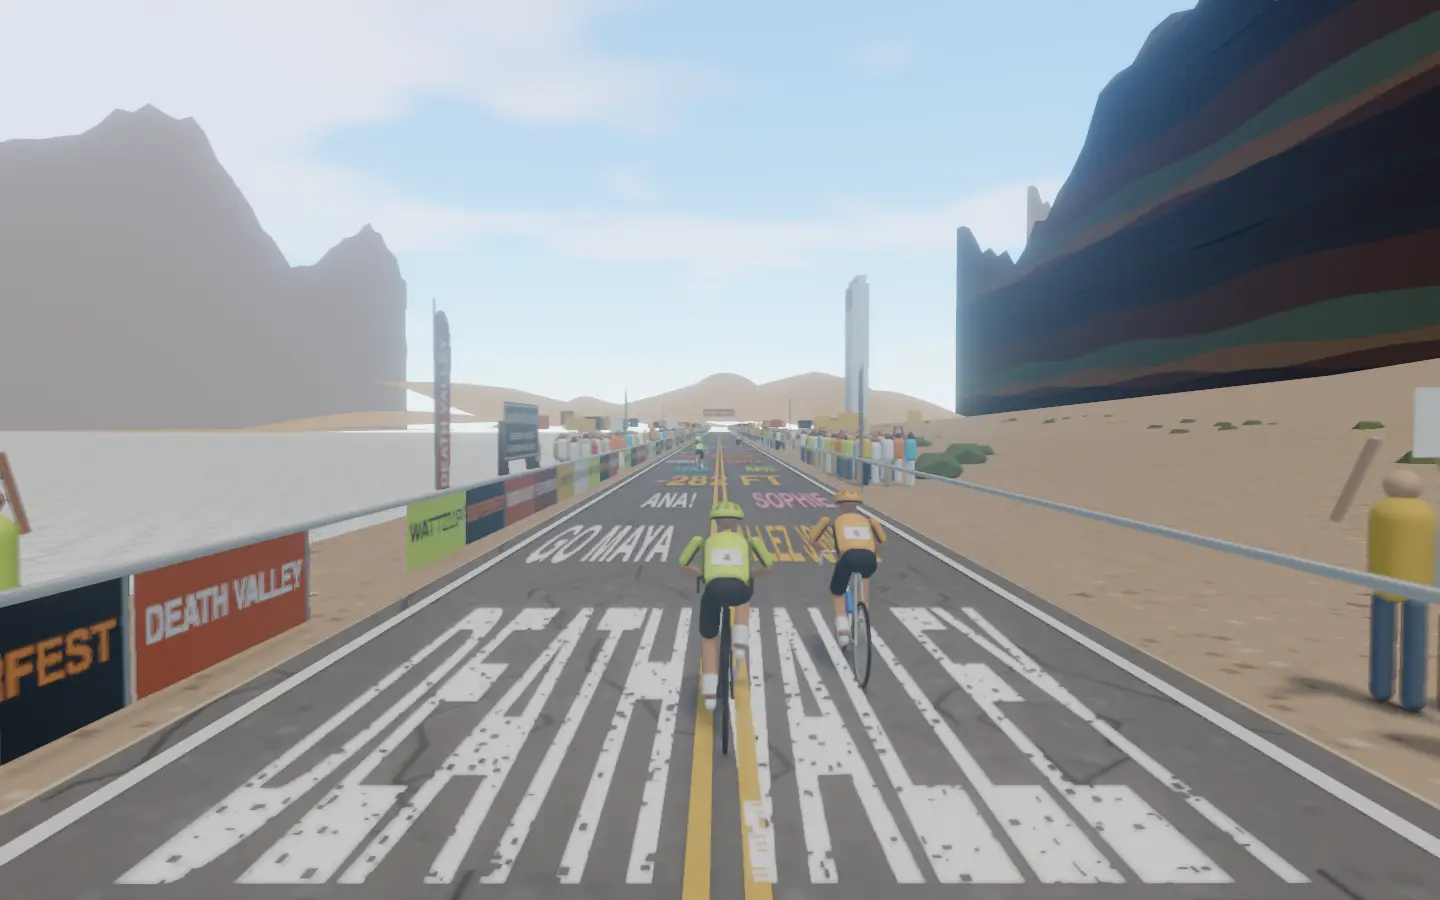
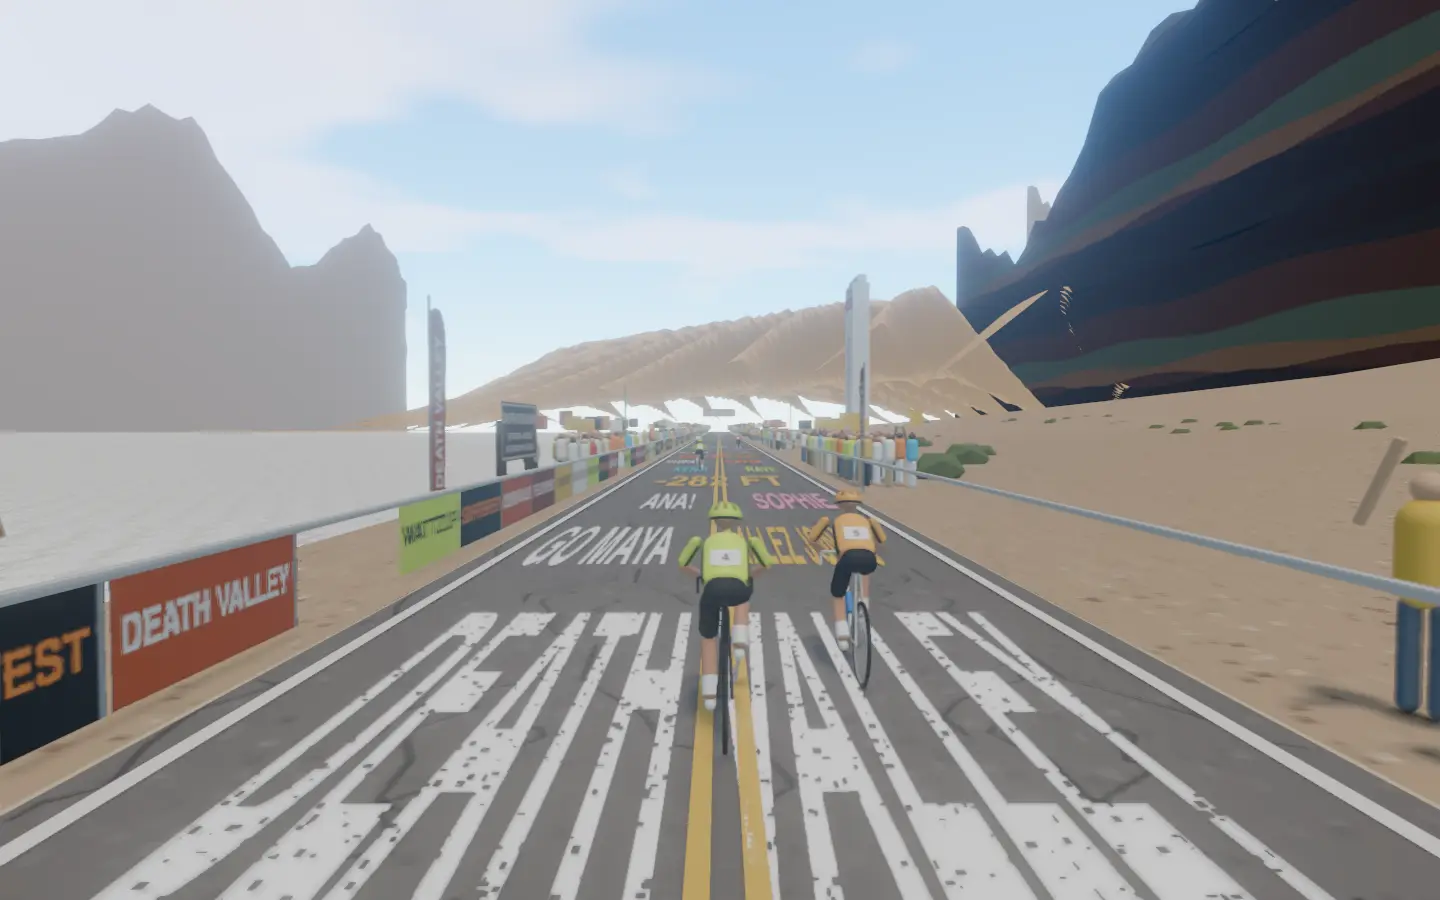
Raise Death Valley's dunes into a ridge field at the end of the road
Transverse ridges with sunlit windward slopes, knife-edge crests and shaded
slip faces, heaped into great mounds, so the dunes read as the landmark.

diff --git a/frontend/projects/wattzup/src/app/core/world-deathvalley.ts b/frontend/projects/wattzup/src/app/core/world-deathvalley.ts
@@ -11,6 +11,7 @@
 // feather flags, pop-up tents, salt crust, road paint and box builder of world-kit.ts.
 import {
   AdditiveBlending,
+  BufferAttribute,
   type BufferGeometry,
   type CanvasTexture,
   Color,
@@ -482,22 +483,42 @@ export class DeathValleyStreet implements SceneStreet {
       new Mesh(panamint, this.distant(haze, 0x9a8a9e, 0.45)),
       new Mesh(cap, this.distant(haze, 0xffffff, 0.15)),
     );
-    // The dunes ahead: rippled sand, crest behind crest, sharp on their lee sides.
-    const dunes = new PlaneGeometry(1600, 800, 160, 80);
+    // The dunes ahead, rising out of the heat at the end of the road: transverse ridges driven by
+    // the wind, each a long gentle windward slope up to a knife-edge crest and a steep slip face
+    // falling away beyond it, heaped into great mounds. The slip faces lie in shade, the crests
+    // catch the light, so the field reads ridge behind ridge.
+    const dunes = new PlaneGeometry(1000, 800, 200, 160);
     dunes.rotateX(-Math.PI / 2);
     const position = dunes.getAttribute('position');
+    const shade = new Float32Array(position.count * 3);
+    const sand = new Color(0xffffff);
     for (let i = 0; i < position.count; i++) {
       const x = position.getX(i);
       const z = position.getZ(i);
-      const ridge = Math.abs(Math.sin(x / 70 + z / 90 + Math.sin(z / 55) * 0.8));
-      const swell = 0.5 + 0.5 * Math.sin(x / 210 - z / 160);
-      const edge = Math.min(1, (z + 400) / 220, (360 - Math.abs(x)) / 220);
-      position.setY(i, Math.max(0, edge) * (10 + 75 * swell * ridge ** 1.6) - 3);
+      const wave = (x * 0.8 + z * 0.6) / 70 + 0.7 * Math.sin(z / 130) + 0.4 * Math.sin(x / 85);
+      const u = wave - Math.floor(wave);
+      const slip = u > 0.78;
+      const profile = slip ? (1 - u) / 0.22 : u / 0.78;
+      const mound = 0.5 + 0.5 * Math.sin(x / 190 - z / 230 + 1.2);
+      const edge = Math.max(0, Math.min(1, (z + 400) / 200, (300 - Math.abs(x)) / 140));
+      position.setY(i, edge * (8 + 100 * mound * (0.3 + 0.7 * profile)) - 3);
+      const tone = slip ? 0.66 : 0.88 + 0.16 * profile;
+      sand.setRGB(tone, tone * 0.97, tone * 0.93);
+      sand.toArray(shade, i * 3);
     }
+    dunes.setAttribute('color', new BufferAttribute(shade, 3));
     dunes.computeVertexNormals();
-    dunes.translate(-20, 0, -720);
+    dunes.translate(-10, 0, -520);
     this.disposables.push(dunes);
-    h.add(new Mesh(dunes, hazedMaterial(this.disposables, haze, 0xe8b878, 0.18, { roughness: 1 })));
+    h.add(
+      new Mesh(
+        dunes,
+        hazedMaterial(this.disposables, haze, 0xf0be7a, 0.12, {
+          roughness: 1,
+          vertexColors: true,
+        }),
+      ),
+    );
     // The mirage on the road ahead: a pale sheen of the sky lying on the asphalt, wavering.
     const sheen = new PlaneGeometry(26, 150);
     sheen.rotateX(-Math.PI / 2);

diff --git a/docs/class-worlds.md b/docs/class-worlds.md
@@ -67,7 +67,7 @@ Every class in `frontend/public/classes.json`, with its World Ride scene. Render
 | 61 | 20 Minute Cardio: Lose Weight Fast | Santa Monica Pier | 80% | The beach bike path winds across the golden sand of Santa Monica toward the pier beneath a line of palms, past painted lifeguard towers and the surfers riding the breakers below the pilings, as the Pacific Park Ferris wheel turns over the pier in the late afternoon sun. The three-minute warm-up rolls past the first lifeguard towers, the long efforts of two and three minutes push along the sand under the palms, and the one-minute and half-minute surges sprint for the pier with the easy minutes spun beside the surf. |
 | 62 | 20 Minute HIIT | Edinburgh Fringe | 78% | The Royal Mile packed with street performers and posters in August festival season. |
 | 63 | 20 Min Cardio Spin Bike Workout | Lake Louise (concept) |  | Turquoise glacial lake beneath Rocky Mountain peaks; an easy shoreline road in Banff. |
-| 64 | Sufferfest 20 Minute Session | Death Valley | 73% | Badwater Road runs below sea level across the floor of Death Valley in the blazing midday heat, the white salt flats of Badwater Basin glaring on the left beneath the Panamint Range and the dark Black Mountains rising on the right, toward golden dunes shimmering in the heat haze. The five-minute warm-up rolls past the salt pans at 282 feet below sea level, the half-minute and one-minute surges attack the shimmer over the flats, and the effort of two and a quarter minutes grinds toward the dunes before the two-minute cool-down spins out past the giant thermometer. |
+| 64 | Sufferfest 20 Minute Session | Death Valley | 76% | Badwater Road runs below sea level across the floor of Death Valley in the blazing midday heat, the white salt flats of Badwater Basin glaring on the left beneath the Panamint Range and the dark Black Mountains rising on the right, toward golden dunes shimmering in the heat haze. The five-minute warm-up rolls past the salt pans at 282 feet below sea level, the half-minute and one-minute surges attack the shimmer over the flats, and the effort of two and a quarter minutes grinds toward the dunes before the two-minute cool-down spins out past the giant thermometer. |
 | 65 | 20 Minute Fat Burning Workout | North Shore, Oahu | 72% | Big-wave beaches and shrimp trucks along Kamehameha Highway. |
 | 66 | 22 Minute Strength Intervals | Bealach na Bà (concept) |  | A single-track Highland road climbing above sea lochs through heather. |
 | 67 | Progressive Efforts on the Passo Gardena | Passo Gardena (concept) |  | Switchbacks beneath the Sella towers, efforts building toward the pass. |

diff --git a/docs/detailed-designs/world-ride/draw-class-scene/README.md b/docs/detailed-designs/world-ride/draw-class-scene/README.md
@@ -609,7 +609,7 @@ None.
   - the event's barriers (DEATH VALLEY, SUFFERFEST, WATTZUP, BADWATER, -282 FT, FEEL THE HEAT), the kit's feather flags along them, two banners across the road (SUFFERFEST · DEATH VALLEY, WATTZUP · BADWATER -282 FT), and knots of fans in white, khaki and hi-vis braving the heat;
   - on the left the white salt crust of Badwater Basin cracked into polygons (the kit's salt crust, moved from Bonneville), glaring in the overhead sun out across the valley with the ground plane sunk 2 m below it (`sink`), the aid tents (the kit's pop-up tents: WATER, ICE, SUFFERFEST, WATTZUP) every 120 m, and the park's brown sign, BADWATER BASIN · ELEVATION −282 FEET;
   - on the right the gravel fans climbing toward the mountains, scattered with creosote bushes, and the giant thermometer, a white pillar 12 m tall reading 120°F;
-  - beyond, hazed by hand: the dark, banded walls of the Black Mountains along the right, a paler wall behind them, the Panamint Range across the salt on the left with Telescope Peak capped in snow, the golden dunes rising crest behind crest ahead, and a mirage wavering on the road before them. Everything along the road is hidden past 218 m.
+  - beyond, hazed by hand: the dark, banded walls of the Black Mountains along the right, a paler wall behind them, the Panamint Range across the salt on the left with Telescope Peak capped in snow, the golden dunes rising ahead, transverse ridges up to 100 m tall, each a long sunlit windward slope to a knife-edge crest and a steep slip face in shade (vertex-coloured), heaped into great mounds, and a mirage wavering on the road before them. Everything along the road is hidden past 218 m.
 
   `lay`, `place` and `setTime` recycle it along a 480 m loop.
 
